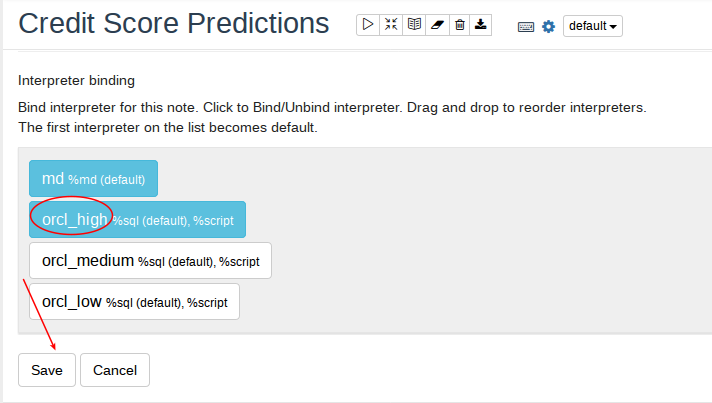
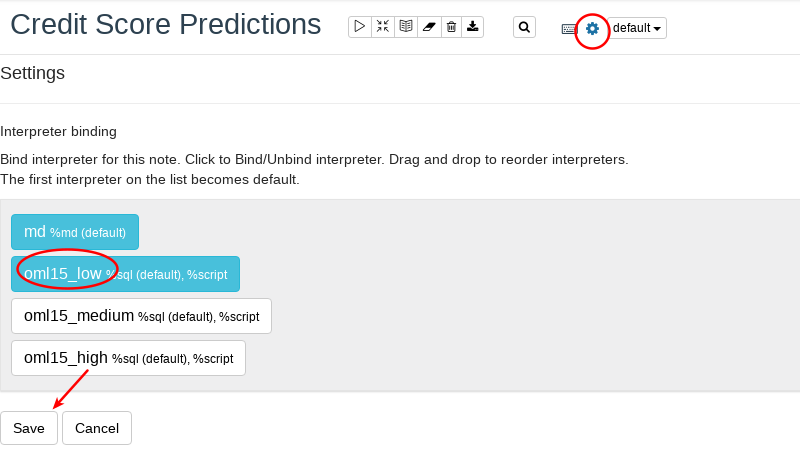
updates

Changed region(s): [[0.0, 0.1191, 1.0, 1.0], [0.0, 0.0298, 0.8652, 0.1191]]

diff --git a/ml.md b/ml.md
@@ -55,7 +55,7 @@ You will begin your machine learning development journey by importing an Apache 
 
 - Enter your userid with password `OraclePTS2017`:
 
-  ![](images/ml/002.png)
+  ![](images/ml/02.png)
 
 - Note that you can run sql statements, run sql scripts (pl/sql blocks), work with Apache Zeppelin Notebooks, schedule notebooks to run at specified times, and review examples of notebooks.  Note that the examples are review only.  To work with the examples you need to first export and then import them to be updatable.  Lets take a look at the examples.  Select `Examples` to review sample content.
 
@@ -65,7 +65,7 @@ You will begin your machine learning development journey by importing an Apache 
 
   ![](images/ml/004.png)
 
-- When you first open a notebook you need to set the interpreter binding and save this setting.  This is only done once.  Any of the binding settings will work.  This is setting the resources (memory, low, medium, high).  Then scroll down to review the example content.
+- When you first open a notebook you need to set the interpreter binding and save this setting.  This is only done once.  Any of the binding settings will work, but be sure to select `OMLXX_low` setting.  This is setting the resources (memory, low, medium, high).  Then scroll down to review the example content.
 
   ![](images/ml/005.png)
 
@@ -93,7 +93,7 @@ You will begin your machine learning development journey by importing an Apache 
 
   ![](images/ml/011.png)
 
-- Select the one of the interpreter bindings and then Save.
+- Select the OMLXX_low interpreter binding and then Save.
 
   ![](images/ml/012.png)
 

diff --git a/dm.md b/dm.md
@@ -1,6 +1,6 @@
   ![](images/dm/001.png)
 
-# Oracle Autonomous Data Warehouse Machine Learning Demo Lab
+# Oracle Data Miner Lab
 
 ## **Introduction**
 Estimated time to complete: 1 hour
